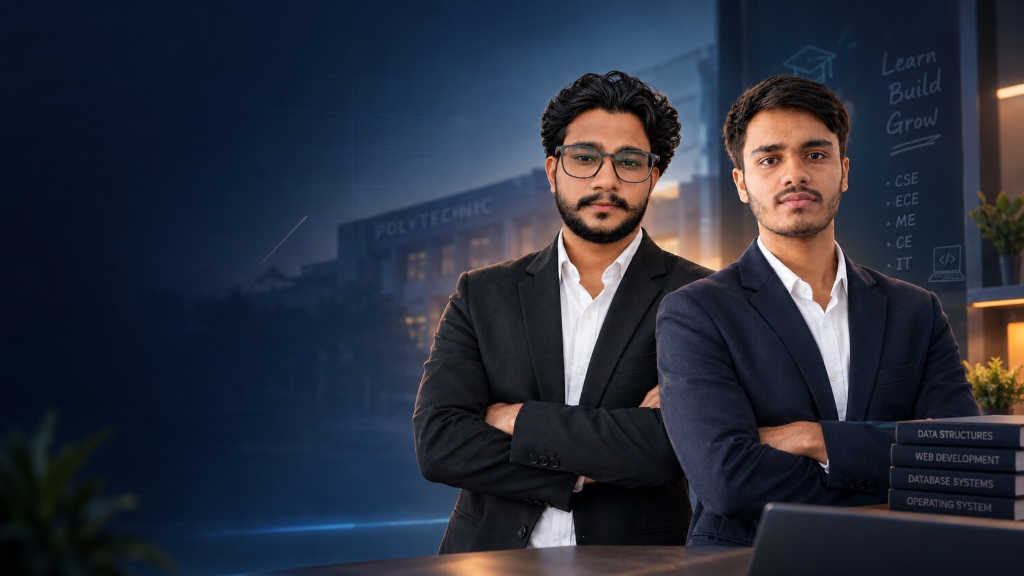
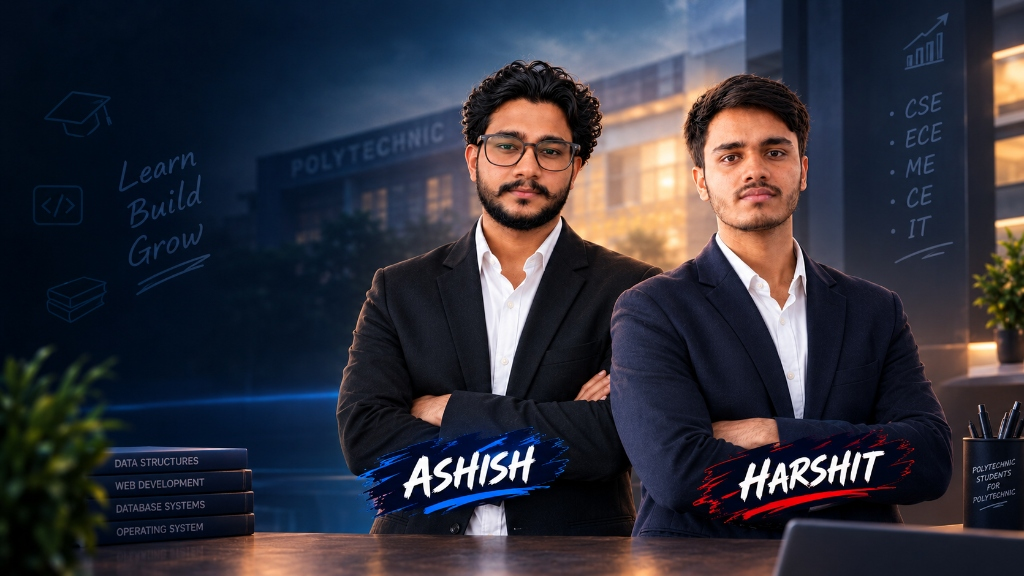
Update hero background with artwork containing pre-rendered names and remove HTML overlays

diff --git a/src/pages/DashboardPage.jsx b/src/pages/DashboardPage.jsx
@@ -4,8 +4,6 @@ import {
   GraduationCap,
   ArrowRight,
   Sparkles,
-  Heart,
-  Code2,
 } from 'lucide-react';
 import { semestersData } from '../data/semestersData';
 import { ThemeToggle } from '../components/common/ThemeToggle';
@@ -18,29 +16,29 @@ export const DashboardPage = () => {
       {/* 1. HERO BACKGROUND IMAGE & CINEMATIC OVERLAYS */}
       {/* ========================================================================= */}
       <div className="absolute inset-0 z-0 overflow-hidden pointer-events-none">
-        {/* The provided developers hero image */}
+        {/* The provided hero image with artwork names already included */}
         <img
           src="/images/bteup-study-hero.jpg"
-          alt="BTEUP Study Creators Ashish and Harshit"
-          className="w-full h-full object-cover object-[72%_15%] sm:object-[76%_center] lg:object-[80%_center] xl:object-[82%_center] transition-transform duration-700 ease-out"
+          alt="BTEUP Study Heroes"
+          className="w-full h-full object-cover object-[70%_20%] sm:object-[74%_center] lg:object-[78%_center] xl:object-[80%_center] transition-transform duration-700 ease-out"
           loading="eager"
           fetchPriority="high"
         />
 
-        {/* Left-side dark cinematic gradient overlay to ensure crystal-clear text readability */}
-        <div className="absolute inset-0 bg-gradient-to-r from-[#070b14] via-[#070b14]/85 sm:via-[#070b14]/75 to-transparent/10 w-full lg:w-[68%] xl:w-[62%]" />
+        {/* Left-side dark cinematic gradient overlay to ensure crystal-clear text readability without covering the developers or their artwork names */}
+        <div className="absolute inset-y-0 left-0 bg-gradient-to-r from-[#070b14] via-[#070b14]/90 to-transparent w-full md:w-[48%] lg:w-[44%] xl:w-[40%]" />
 
-        {/* Mobile full subtle scrim to balance portrait scaling */}
-        <div className="absolute inset-0 bg-[#070b14]/65 sm:hidden" />
+        {/* Mobile full subtle scrim to ensure text legibility on narrow portrait viewports */}
+        <div className="absolute inset-0 bg-[#070b14]/70 sm:hidden" />
 
-        {/* Bottom subtle vignette to ground the viewport */}
-        <div className="absolute inset-x-0 bottom-0 h-32 bg-gradient-to-t from-[#070b14] via-[#070b14]/40 to-transparent" />
+        {/* Bottom subtle vignette to softly ground the viewport without obscuring desk artwork */}
+        <div className="absolute inset-x-0 bottom-0 h-24 bg-gradient-to-t from-[#070b14]/90 via-[#070b14]/30 to-transparent" />
 
         {/* Top subtle vignette for the header */}
-        <div className="absolute inset-x-0 top-0 h-24 bg-gradient-to-b from-[#070b14]/80 via-transparent to-transparent" />
+        <div className="absolute inset-x-0 top-0 h-20 bg-gradient-to-b from-[#070b14]/75 via-transparent to-transparent" />
 
-        {/* Ambient radial accent glow behind the main headline */}
-        <div className="absolute -left-20 top-1/3 w-[500px] h-[500px] bg-brand-500/15 rounded-full blur-3xl pointer-events-none" />
+        {/* Ambient radial accent glow behind the main headline on the far left */}
+        <div className="absolute -left-24 top-1/4 w-[420px] h-[420px] bg-brand-500/15 rounded-full blur-3xl pointer-events-none" />
       </div>
 
       {/* ========================================================================= */}
@@ -63,7 +61,7 @@ export const DashboardPage = () => {
               BTEUP <span className="text-brand-400">Study</span>
             </span>
             <span className="text-[10px] font-mono tracking-wider text-slate-400 uppercase">
-              Polytechnic Learning
+              Polytechnic Learning Platform
             </span>
           </div>
         </Link>
@@ -87,13 +85,13 @@ export const DashboardPage = () => {
       </header>
 
       {/* ========================================================================= */}
-      {/* 3. MAIN CONTENT CANVAS (LEFT-ALIGNED) */}
+      {/* 3. MAIN CONTENT CANVAS (FOCUSED ON LEFT OPEN AREA) */}
       {/* ========================================================================= */}
-      <main className="relative z-20 flex-1 flex flex-col justify-center px-4 sm:px-8 lg:px-12 py-8 sm:py-10 max-w-7xl mx-auto w-full">
+      <main className="relative z-20 flex-1 flex flex-col justify-center px-4 sm:px-8 lg:px-12 py-6 sm:py-8 max-w-7xl mx-auto w-full">
         <div className="grid grid-cols-1 lg:grid-cols-12 gap-8 items-center">
           
-          {/* Left Column: Headlines, Tagline & Semester Selection */}
-          <div className="lg:col-span-7 xl:col-span-7 space-y-6 sm:space-y-7 max-w-xl xl:max-w-2xl">
+          {/* Left Column: Headline, Tagline & Semester Selection */}
+          <div className="lg:col-span-6 xl:col-span-5 space-y-5 sm:space-y-6 max-w-lg xl:max-w-xl">
             
             {/* Top Eyebrow Badge */}
             <div className="inline-flex items-center gap-2 px-3 py-1 rounded-full bg-brand-500/10 border border-brand-500/25 text-brand-300 text-xs font-semibold tracking-wide backdrop-blur-md">
@@ -101,32 +99,24 @@ export const DashboardPage = () => {
               <span>For Polytechnic Diploma Students</span>
             </div>
 
-            {/* Main Headlines */}
-            <div className="space-y-2 sm:space-y-3">
+            {/* Main Brand Title, Headline & Tagline */}
+            <div className="space-y-2 sm:space-y-2.5">
               <span className="text-xs sm:text-sm font-mono font-bold tracking-widest text-brand-400 uppercase block">
                 BTEUP Study
               </span>
-              <h1 className="text-3xl sm:text-4xl md:text-5xl lg:text-[44px] xl:text-[52px] font-extrabold font-display text-white tracking-tight leading-[1.12]">
+              <h1 className="text-3xl sm:text-4xl lg:text-[42px] xl:text-[48px] font-extrabold font-display text-white tracking-tight leading-[1.12]">
                 Polytechnic ki padhai, <br className="hidden sm:inline" />
                 <span className="bg-gradient-to-r from-brand-300 via-brand-400 to-cyan-400 bg-clip-text text-transparent">
                   ab apni language mein.
                 </span>
               </h1>
-              <p className="text-base sm:text-lg md:text-xl font-medium text-slate-300 font-sans">
+              <p className="text-base sm:text-lg font-medium text-slate-300 font-sans">
                 “Ratne ke liye nahi, <span className="text-white font-bold">samajhne ke liye.”</span>
               </p>
             </div>
 
-            {/* Mobile / Inline Creator Badge */}
-            <div className="flex sm:hidden items-center gap-2 px-3 py-1.5 rounded-xl bg-slate-900/80 border border-white/10 backdrop-blur-md text-xs text-slate-300 w-fit">
-              <span className="text-slate-400">Created by:</span>
-              <span className="font-bold text-brand-300 font-mono text-[11px]">ASHISH</span>
-              <span className="text-slate-500">&</span>
-              <span className="font-bold text-cyan-300 font-mono text-[11px]">HARSHIT</span>
-            </div>
-
             {/* Semester Selection Box */}
-            <div className="pt-2 sm:pt-3 space-y-3">
+            <div className="pt-1 sm:pt-2 space-y-3">
               <div className="flex items-center justify-between">
                 <h2 className="text-xs sm:text-sm font-mono font-bold text-slate-200 uppercase tracking-widest flex items-center gap-2">
                   <span className="w-2 h-2 rounded-full bg-brand-400 shadow-[0_0_8px_#38bdf8] inline-block" />
@@ -138,27 +128,27 @@ export const DashboardPage = () => {
               </div>
 
               {/* 6 Semester Cards Grid */}
-              <div className="grid grid-cols-2 sm:grid-cols-3 gap-2.5 sm:gap-3">
+              <div className="grid grid-cols-2 sm:grid-cols-3 gap-2 sm:gap-2.5">
                 {semestersData.map((sem) => {
                   const isActive = sem.isAvailable;
                   return (
                     <Link
                       key={sem.id}
                       to={`/semester/${sem.id}`}
-                      className={`group relative p-3 sm:p-3.5 rounded-2xl border transition-all duration-200 flex flex-col justify-between backdrop-blur-xl ${
+                      className={`group relative p-2.5 sm:p-3 rounded-2xl border transition-all duration-200 flex flex-col justify-between backdrop-blur-xl ${
                         isActive
-                          ? 'bg-slate-900/65 hover:bg-brand-950/50 border-white/15 hover:border-brand-400/60 shadow-lg hover:shadow-brand-500/20 hover:-translate-y-0.5'
-                          : 'bg-slate-950/45 hover:bg-slate-900/60 border-white/5 hover:border-amber-500/30'
+                          ? 'bg-slate-900/70 hover:bg-brand-950/60 border-white/15 hover:border-brand-400/60 shadow-lg hover:shadow-brand-500/20 hover:-translate-y-0.5'
+                          : 'bg-slate-950/50 hover:bg-slate-900/60 border-white/5 hover:border-amber-500/30'
                       }`}
                     >
                       {/* Ambient hover glow for active cards */}
                       {isActive && (
-                        <div className="absolute -top-8 -right-8 w-20 h-20 bg-brand-500/10 rounded-full blur-xl pointer-events-none group-hover:bg-brand-500/25 transition-all" />
+                        <div className="absolute -top-6 -right-6 w-16 h-16 bg-brand-500/10 rounded-full blur-xl pointer-events-none group-hover:bg-brand-500/25 transition-all" />
                       )}
 
-                      <div className="flex items-center justify-between mb-2">
+                      <div className="flex items-center justify-between mb-1.5">
                         <span
-                          className={`font-mono text-[10px] sm:text-[11px] font-bold px-2 py-0.5 rounded-md border ${
+                          className={`font-mono text-[10px] sm:text-[11px] font-bold px-1.5 py-0.5 rounded-md border ${
                             isActive
                               ? 'bg-brand-500/15 text-brand-300 border-brand-500/30'
                               : 'bg-white/5 text-slate-400 border-white/10'
@@ -181,7 +171,7 @@ export const DashboardPage = () => {
 
                       <div className="flex items-center justify-between mt-1">
                         <span
-                          className={`text-sm sm:text-base font-bold transition-colors ${
+                          className={`text-xs sm:text-sm font-bold transition-colors ${
                             isActive
                               ? 'text-white group-hover:text-brand-300'
                               : 'text-slate-300 group-hover:text-white'
@@ -190,7 +180,7 @@ export const DashboardPage = () => {
                           {sem.title}
                         </span>
                         <ArrowRight
-                          className={`w-4 h-4 transition-all ${
+                          className={`w-3.5 h-3.5 transition-all ${
                             isActive
                               ? 'text-slate-400 group-hover:text-brand-300 group-hover:translate-x-1'
                               : 'text-slate-600 group-hover:text-amber-400'
@@ -205,47 +195,16 @@ export const DashboardPage = () => {
 
           </div>
 
-          {/* Right Column: Visual Anchor on Desktop (Developers Position Tags) */}
-          <div className="hidden lg:block lg:col-span-5 xl:col-span-5 relative h-full min-h-[360px] pointer-events-none">
-            
-            {/* Tag for ASHISH (Glasses-wearing developer on the left side of the duo) */}
-            <div className="absolute left-[8%] bottom-[42%] pointer-events-auto">
-              <div className="flex items-center gap-2 px-3 py-1.5 rounded-full bg-slate-950/75 border border-white/20 backdrop-blur-md shadow-xl text-xs font-mono text-slate-200 hover:border-brand-400/60 transition-colors">
-                <span className="w-2 h-2 rounded-full bg-brand-400 shadow-[0_0_8px_#38bdf8] animate-pulse" />
-                <span className="font-bold tracking-widest text-white">ASHISH</span>
-              </div>
-            </div>
-
-            {/* Tag for HARSHIT (Developer standing beside him on the right) */}
-            <div className="absolute right-[8%] bottom-[38%] pointer-events-auto">
-              <div className="flex items-center gap-2 px-3 py-1.5 rounded-full bg-slate-950/75 border border-white/20 backdrop-blur-md shadow-xl text-xs font-mono text-slate-200 hover:border-cyan-400/60 transition-colors">
-                <span className="w-2 h-2 rounded-full bg-cyan-400 shadow-[0_0_8px_#22d3ee] animate-pulse" />
-                <span className="font-bold tracking-widest text-white">HARSHIT</span>
-              </div>
-            </div>
-
-            {/* Built by Ashish & Harshit Badge over the desk area */}
-            <div className="absolute right-[4%] bottom-[6%] pointer-events-auto">
-              <div className="inline-flex items-center gap-2 px-3.5 py-1.5 rounded-full bg-slate-950/85 border border-brand-500/30 backdrop-blur-md shadow-2xl text-xs font-medium text-slate-300">
-                <Code2 className="w-3.5 h-3.5 text-brand-400" />
-                <span>
-                  Built by{' '}
-                  <strong className="text-white font-bold tracking-wide">
-                    Ashish & Harshit
-                  </strong>
-                </span>
-              </div>
-            </div>
-
-          </div>
+          {/* Right Column: Left completely empty to showcase the developers and artwork names */}
+          <div className="hidden lg:block lg:col-span-6 xl:col-span-7 h-full pointer-events-none" />
 
         </div>
       </main>
 
       {/* ========================================================================= */}
-      {/* 4. SLEEK DESKTOP/MOBILE FOOTER STRIP */}
+      {/* 4. SLEEK MINIMAL FOOTER STRIP */}
       {/* ========================================================================= */}
-      <footer className="relative z-30 w-full px-4 sm:px-8 lg:px-12 py-3 sm:py-4 border-t border-white/10 bg-slate-950/80 backdrop-blur-md flex flex-wrap items-center justify-between gap-3 text-xs text-slate-400">
+      <footer className="relative z-30 w-full px-4 sm:px-8 lg:px-12 py-3 border-t border-white/10 bg-slate-950/80 backdrop-blur-md flex flex-wrap items-center justify-between gap-3 text-xs text-slate-400">
         <div className="flex items-center gap-2">
           <span className="w-2 h-2 rounded-full bg-emerald-400" />
           <span className="text-slate-300 font-medium">BTEUP Diploma Syllabus Companion</span>
@@ -253,11 +212,8 @@ export const DashboardPage = () => {
           <span className="hidden sm:inline text-slate-400">100% Free & Open-Source</span>
         </div>
 
-        <div className="flex items-center gap-1.5 text-slate-300">
-          <span>Crafted with</span>
-          <Heart className="w-3.5 h-3.5 text-rose-500 fill-rose-500 inline" />
-          <span>by</span>
-          <strong className="text-white font-semibold">Ashish & Harshit</strong>
+        <div className="text-slate-400 text-xs">
+          Empowering UP Polytechnic Diploma Engineering
         </div>
       </footer>
 
